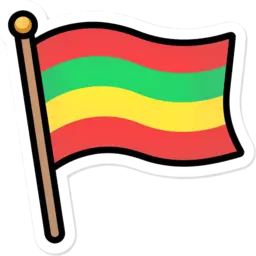
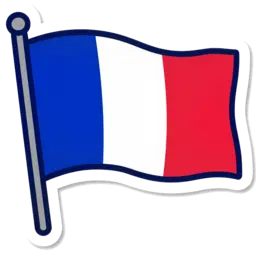
Dromadaire à une bosse, drapeau français

diff --git a/outils/images.py b/outils/images.py
@@ -112,8 +112,8 @@ DESSINS = {
     "doudou": "a soft cuddly teddy bunny comforter toy with floppy ears",
     "doudoune": "a puffy blue winter down jacket",
     "dragon": "a friendly green dragon with small wings",
-    "drapeau": "a colorful flag waving on a pole",
-    "dromadaire": "a dromedary camel with a single hump, standing in the desert sand",
+    "drapeau": "the French flag with three vertical stripes blue, white and red, waving on a pole",
+    "dromadaire": "a dromedary with only ONE single hump in the middle of its back, side view, standing on desert sand",
     "drone": "a small quadcopter drone flying",
     "dé": "a single white dice showing five dots",
     "déguisement": "a child wearing a superhero costume with a cape and a mask",
@@ -196,6 +196,8 @@ GRAINES = {
     "dentiste": 5,
     "datte": 5,
     "bracelet": 5,
+    "dromadaire": 6,  # graine 1 : deux bosses, un chameau
+    "drapeau": 5,
 }
 
 
